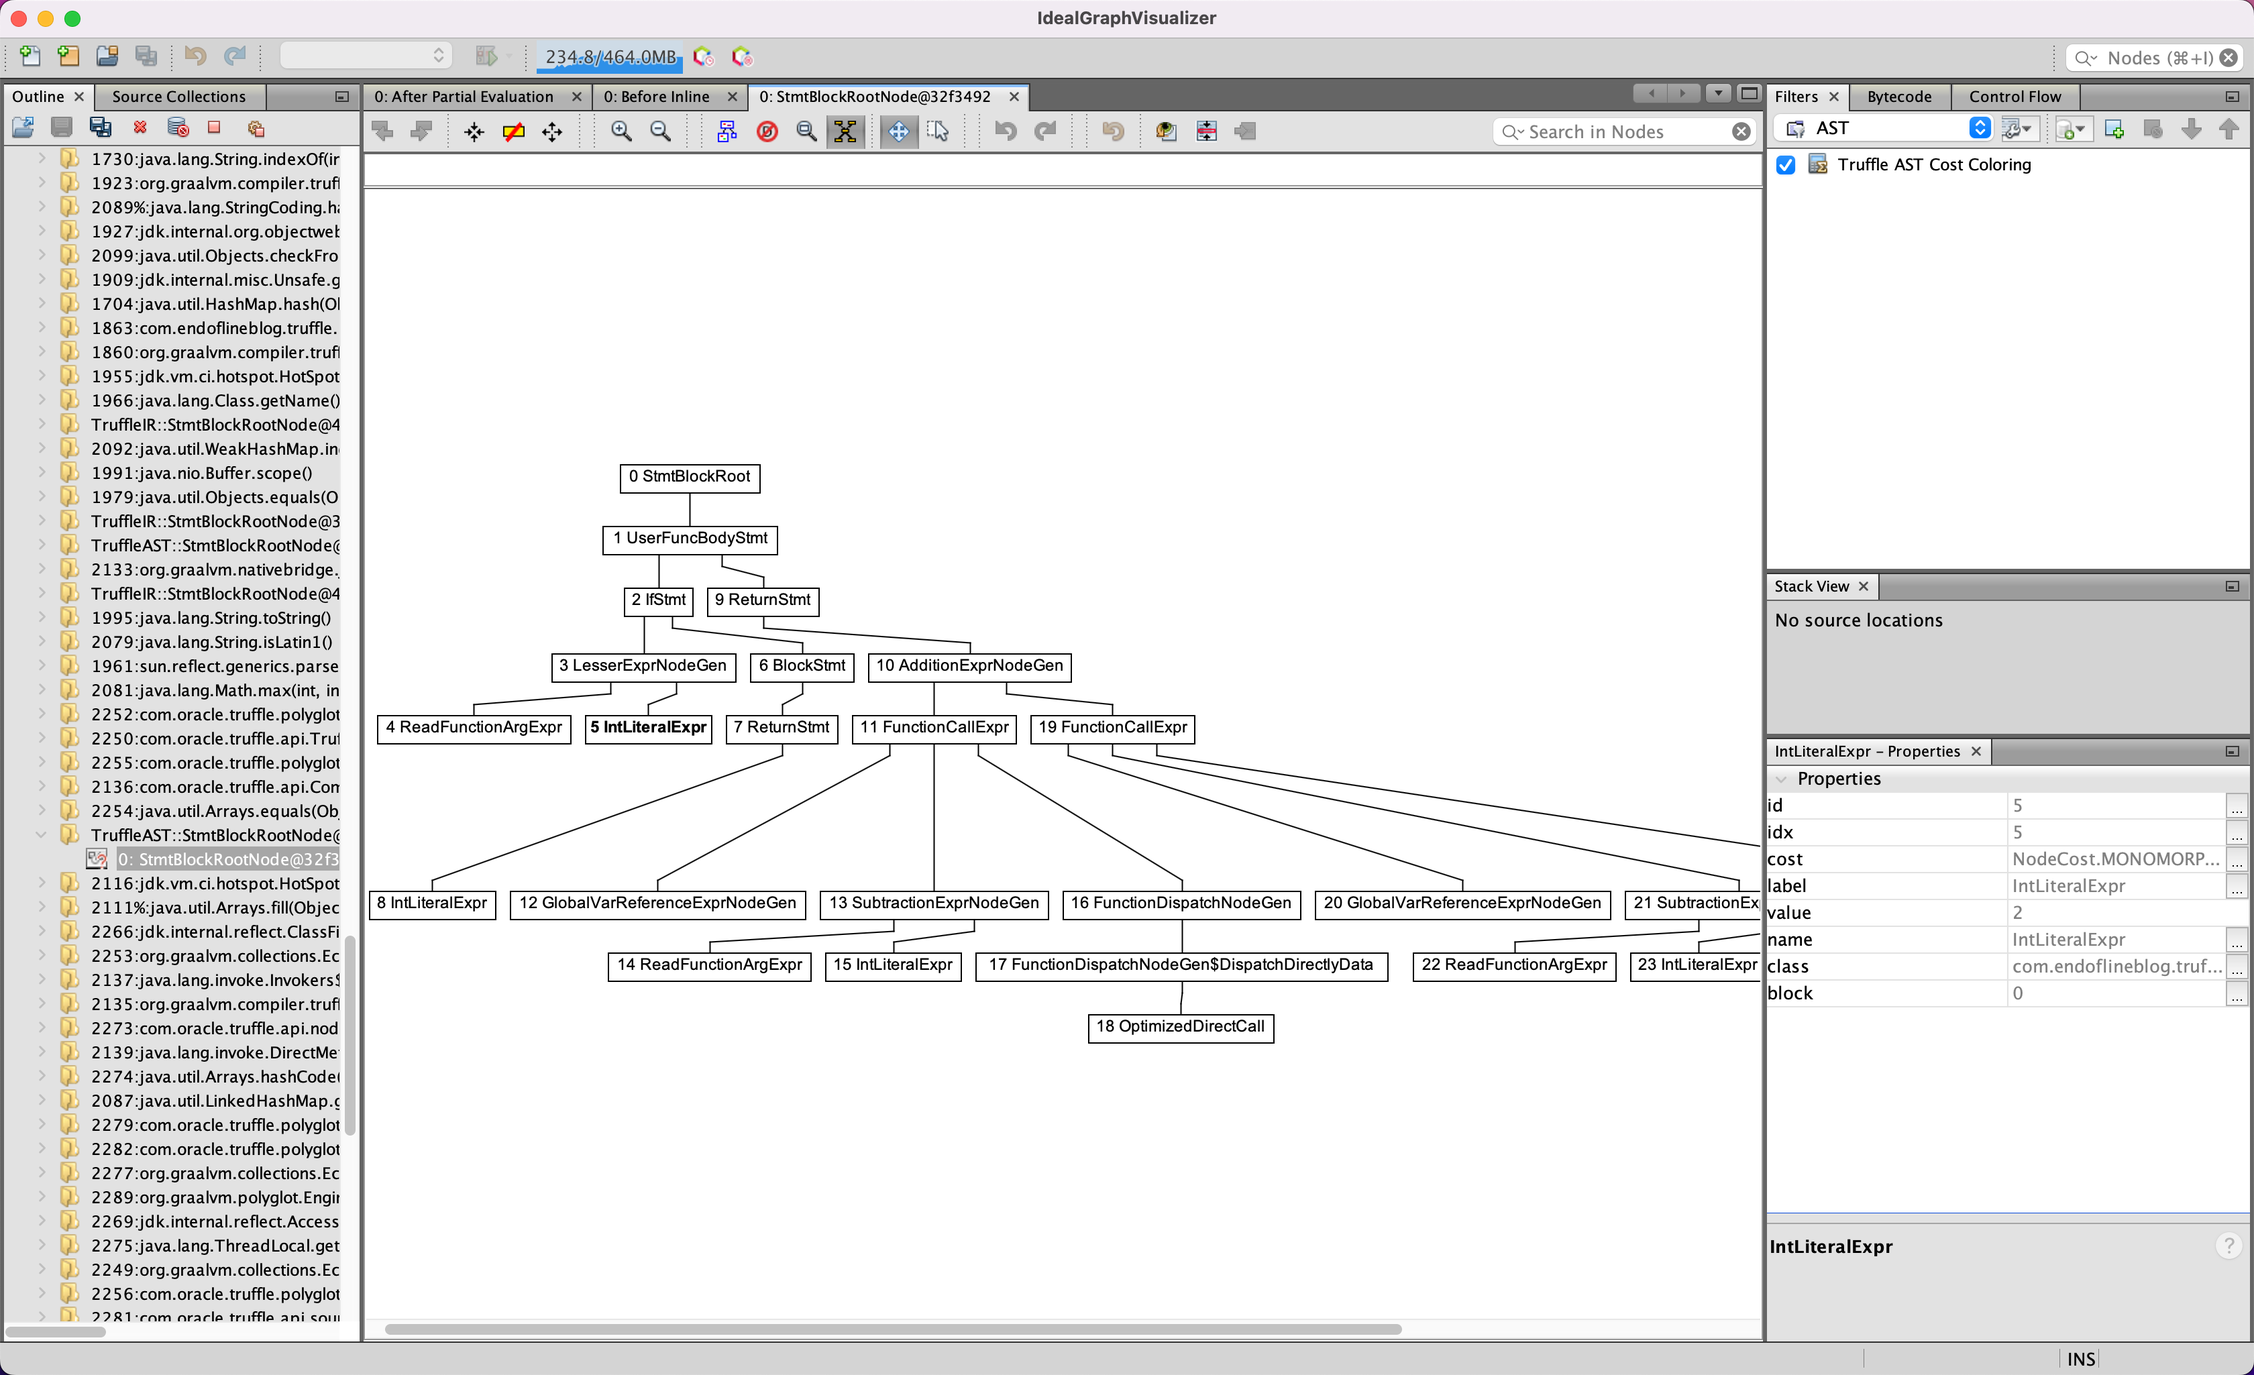
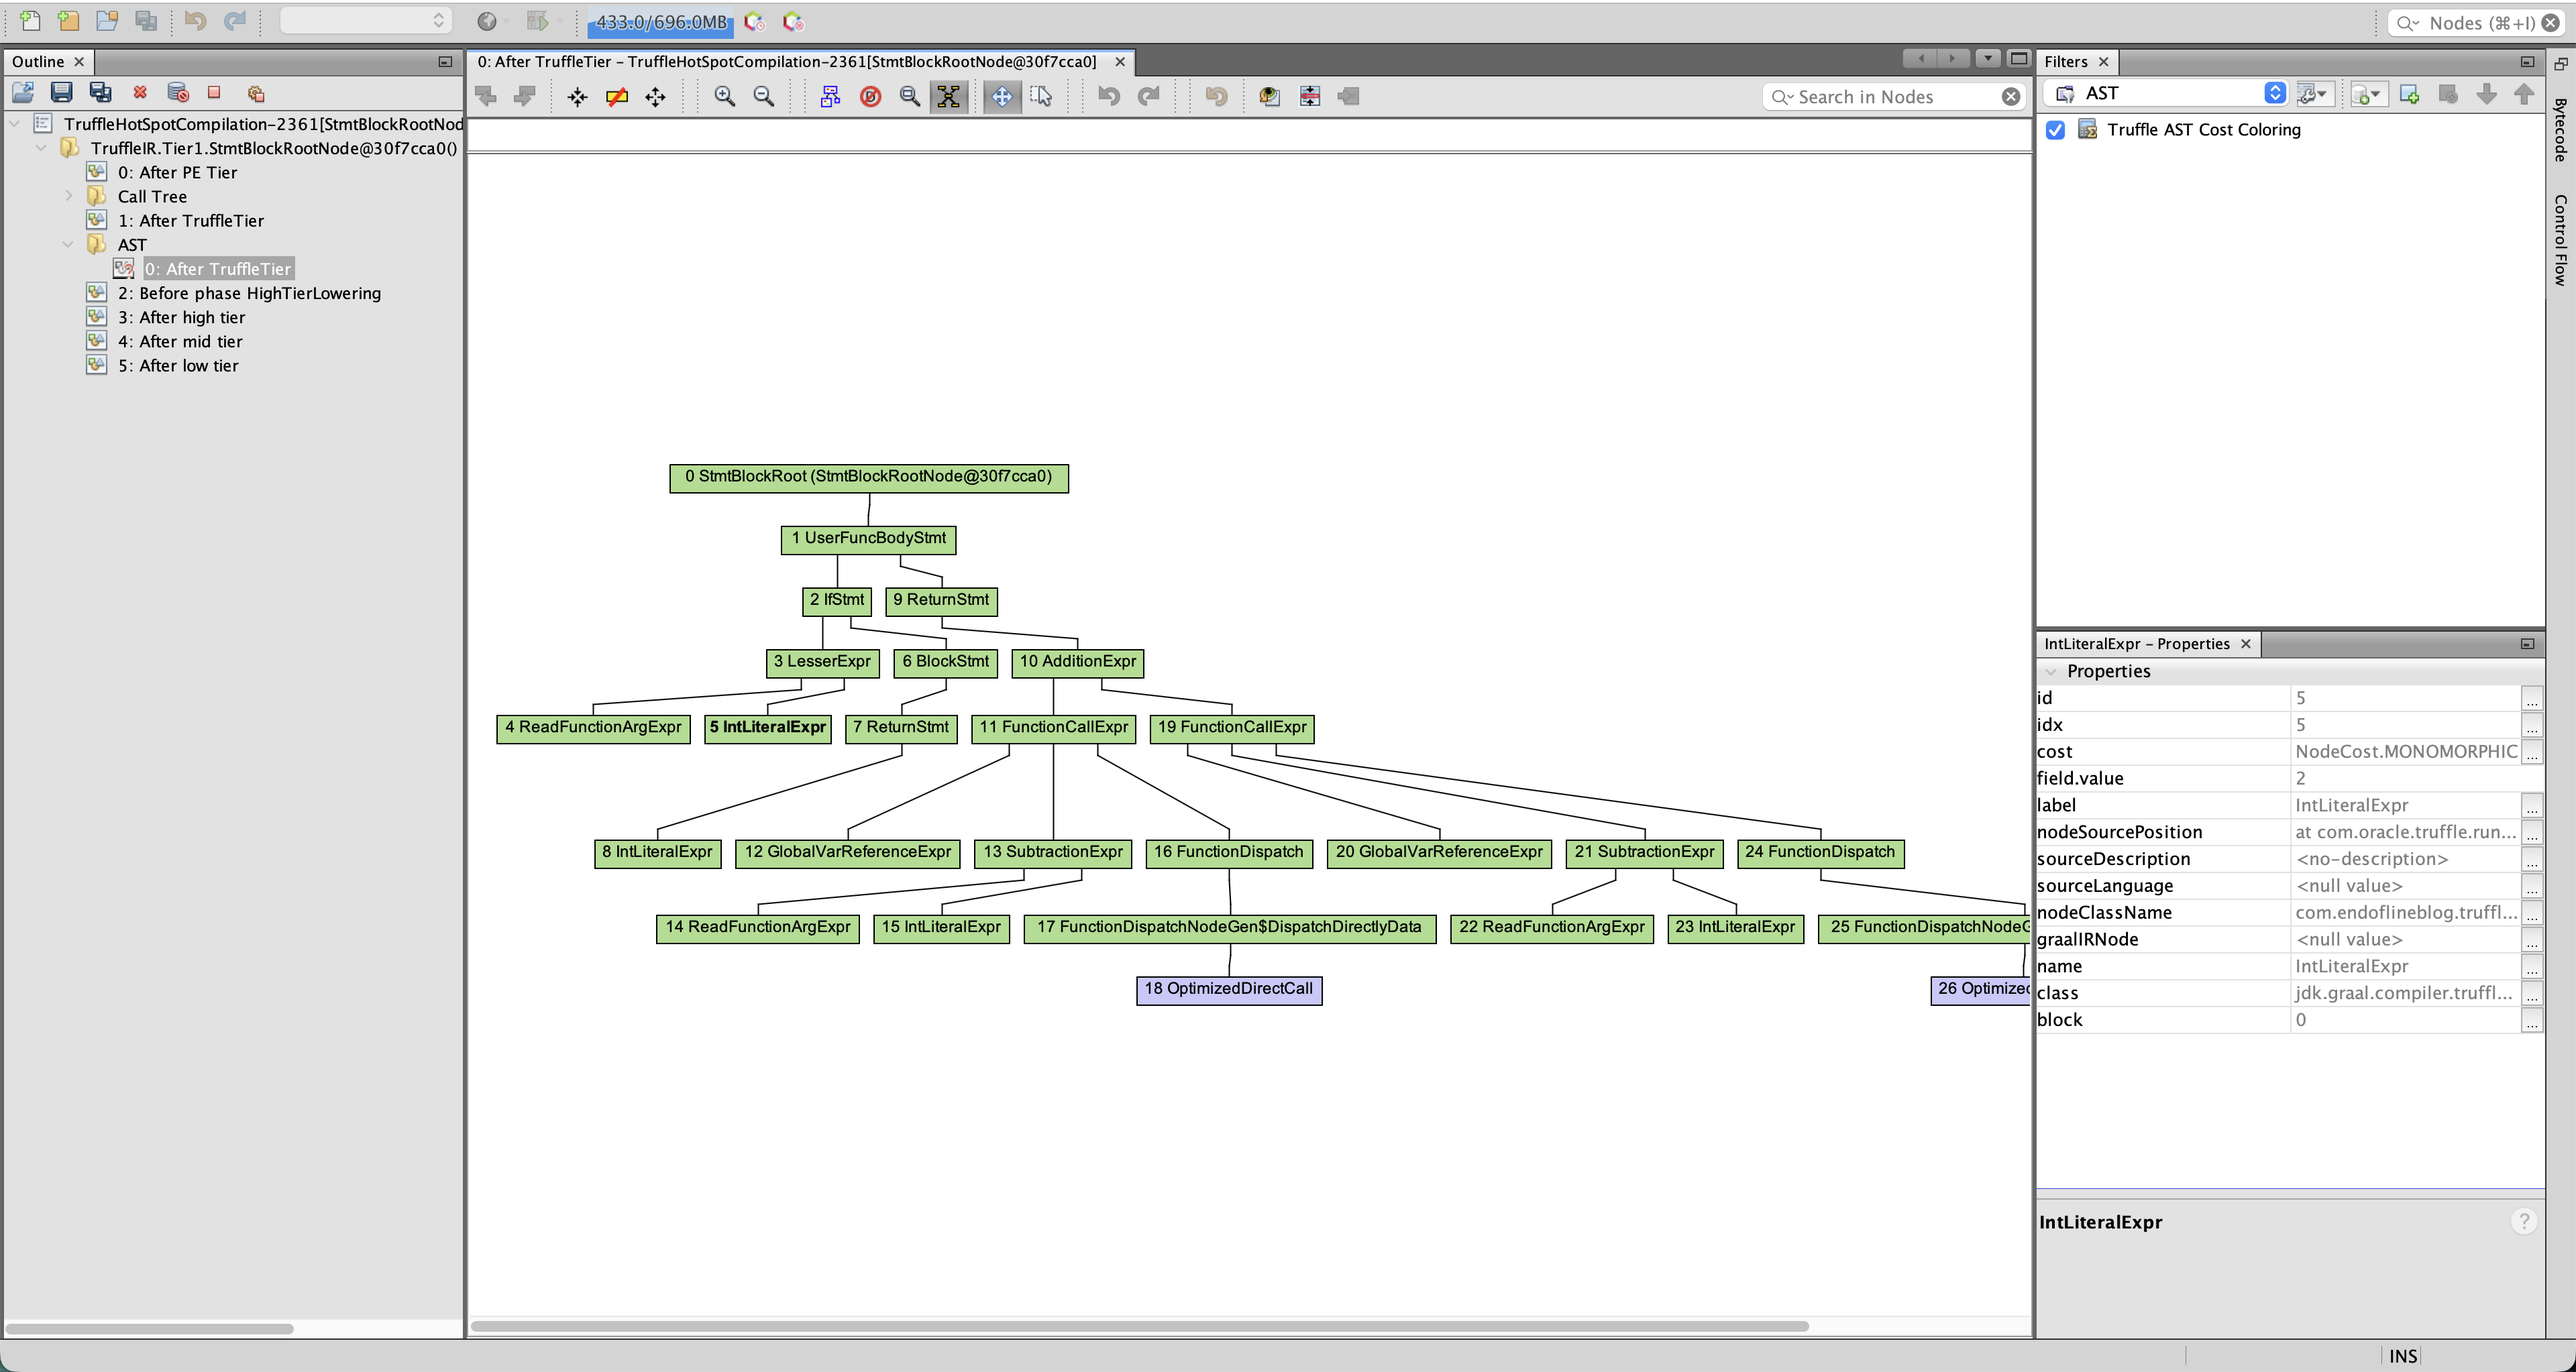
Update instructions for using Ideal Graph Visualizer

Changed region(s): [[0.0, 0.0, 1.0, 0.9853], [0.625, 0.9545, 0.7188, 0.9853], [0.9062, 0.9853, 0.9375, 1.0]]

diff --git a/part-09/ReadMe.md b/part-09/ReadMe.md
@@ -83,6 +83,9 @@ With these changes, re-running the benchmark produces the following numbers:
 ```
 Benchmark                              Mode  Cnt    Score   Error  Units
 FibonacciBenchmark.recursive_eval_ezs  avgt    5  102.190 ± 1.099  us/op
+FibonacciBenchmark.recursive_eval_js   avgt    5   78.143 ± 3.453  us/op
+FibonacciBenchmark.recursive_eval_sl   avgt    5   55.662 ± 3.395  us/op
+FibonacciBenchmark.recursive_java      avgt    5   38.383 ± 1.046  us/op
 ```
 
 We have achieved almost a 60x speedup compared to the version from [part 8](../part-08).
@@ -96,36 +99,45 @@ It’s a project maintained by the same team that maintains GraalVM and Truffle,
 and allows visualizing as graphs the many debug trees that Truffle and Graal produce in the process of interpreting your language.
 
 To have your Truffle interpreter emit graphs to consume in IGV,
-you need to add the `-Dgraal.Dump=:1` JVM argument when starting it.
-You can send the dumps directly to the program with the `-Dgraal.PrintGraph=Network`,
-or to a specific file by passing the `-Dgraal.DumpPath` argument
-(the default is to save them in the `graal_dumps` folder in the current directory if they cannot be delivered to a running instance of IGV).
+you need to add the `-Djdk.graal.Dump=:1` JVM argument when starting it.
+The default destination for the graphs is to save them in the `graal_dumps`
+folder in the current directory.
+You can send the graph files to a different folder by passing the `-Djdk.graal.DumpPath` argument.
+Additionally, Graal tends to produce a lot of graphs,
+so it's useful to filter them to only the `RootNode`s
+of your language's implementation with the `-Djdk.graal.MethodFilter` argument.
 
-For example, to dump the data from the EasyScript benchmark,
-you can add the appropriate JVM arguments in the benchmark configuration:
+For example, to save the graphs from the EasyScript benchmark,
+you can add the appropriate JVM arguments to the benchmark configuration:
 
 ```java
+import org.openjdk.jmh.annotations.Benchmark;
+import org.openjdk.jmh.annotations.Fork;
+
+public class FibonacciBenchmark extends TruffleBenchmark {
+    // ...
+
     @Fork(jvmArgsPrepend = {
-            "-Dgraal.Dump=:1",
-            "-Dgraal.PrintGraph=Network"
+            "-Djdk.graal.Dump=:1",
+            "-Djdk.graal.MethodFilter=*StmtBlockRootNode*",
     })
     @Benchmark
     public int recursive_eval_ezs() {
         return this.truffleContext.eval("ezs", FIBONACCI_JS_PROGRAM).asInt();
     }
+}
 ```
 
-After [downloading IGV](https://www.oracle.com/downloads/graalvm-downloads.html)
-(it's under the "Archived Enterprise Releases" tab),
-run it by executing `./idealgraphvisualizer`
-in the `bin` directory of the downloaded and uncompressed program.
-Now, when running the benchmark, you should see in the output:
+With these changes, when running the benchmark, you should see these lines in the output:
 
 ```shell-session
-[Use -Dgraal.LogFile=<path> to redirect Graal log output to a file.]
-Connected to the IGV on 127.0.0.1:4445
+...
+Dumping IGV graphs in /Users/user/graalvm-truffle-tutorial/part-09/graal_dumps/2026.05.13.19.27.59.067
+...
 ```
 
-And a bunch of graphs should appear in the "Outline" menu on the left:
+After [starting IGV](https://www.graalvm.org/jdk25/tools/igv/#get-started),
+you can now open the graph files from the above directory,
+and a bunch of entries should appear in the "Outline" menu on the left:
 
 ![](img/igv-screenshot.png)
